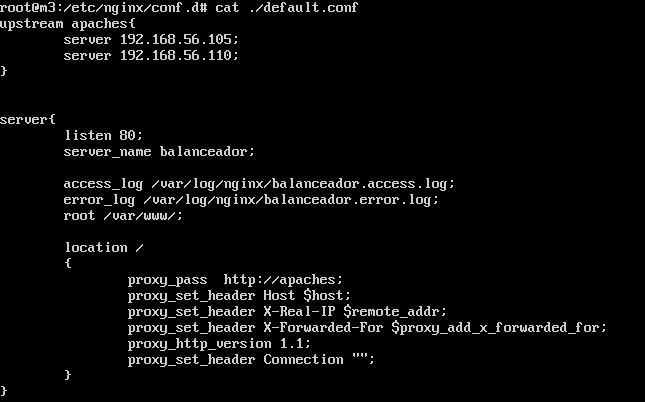
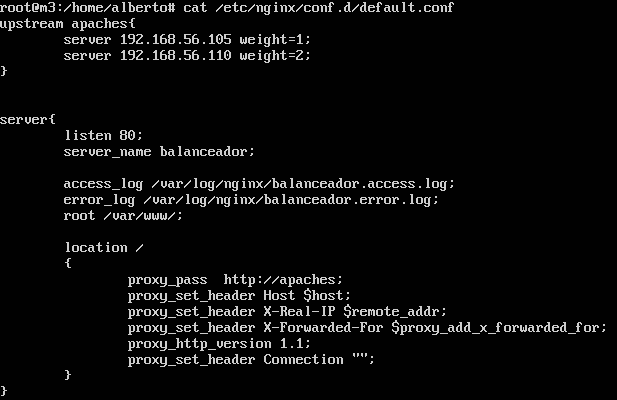
nginx conf

diff --git a/Practica3/Documentacion_P3.md b/Practica3/Documentacion_P3.md
@@ -6,17 +6,18 @@ Lo primero es **crear un nuevo servidor ubuntu** (sin instalarle el paquete LAMP
 
 	apt-get update && apt-get dist-upgrade && apt-get autoremove
 	apt-get install nginx
+	systemctl start nginx
 
 Una vez instalado creamos el **archivo de configuración** con la orden 'touch' en la siguiente ruta:
 	
 	etc/nginx/conf.d/default.conf
 
-Con el editor 'vi' definimos la **configuración** que se muestra en la siguiente captura:
+Con el editor 'vi' definimos la **configuración** que se muestra en la siguiente captura para que el balanceador gestione las solicitudes a los servidores creados en las practicas anteriores:
 
 ![imagen](https://github.com/Alberto93GV/SWAP/blob/master/Practica3/nginx_conf.png)
 
 
-Finalmente **iniciamos** el **servicio** con: 
+Finalmente **reiniciamos** el **servicio** con: 
 
 	systemctl start nginx
 
